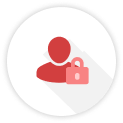
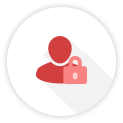
Depen

diff --git a/src/js/views/roles/Roles.js b/src/js/views/roles/Roles.js
@@ -1,16 +1,16 @@
 import React, { Component } from 'react';
 import AltContainer from 'alt-container';
-import { FormattedMessage } from 'react-intl';
 import RoleStore from '../../stores/RoleStore';
 import RoleActions from '../../actions/RoleActions';
 import { NewPageHeader } from '../../containers/full/PageHeader';
 import { DojotBtnLink } from '../../components/DojotButton';
 
+
 function RoleCard(obj) {
     return (
         <div className="card-size card-hover lst-entry-wrapper z-depth-2 fullHeight">
             <div className="lst-entry-title col s12">
-                <img className="title-icon" src="images/icons/roles-wt.png" alt="Role" />
+                <img className="title-icon" src="images/roles-icon.png" alt="Role" />
                 <div className="title-text truncate" title={obj.group.name}>
                     <span className="text">
                         {obj.group.name}
@@ -24,13 +24,9 @@ function RoleCard(obj) {
                             <img src="images/info-icon.png" alt="Description" />
                         </div>
                         <div className="user-card attr-content" title={obj.group.description}>
-                            <input className="truncate" type="text" value={obj.group.description} disabled />
-                            <span>
-                                <FormattedMessage
-                                    id="Roles.description"
-                                    defaultMessage="Description"
-                                />
-                            </span>
+               {/*              <input  type="text" value={obj.group.description} disabled /> */}
+                            {obj.group.description}
+                            <span>Description</span>
                         </div>
                     </div>
 
@@ -45,7 +41,7 @@ function RolesList(param) {
     if (param.groups) {
         return (
             <div className="fill">
-                {param.groups.map(obj => <RoleCard group={obj} />)}
+                {param.groups.map(obj => <RoleCard group={obj} key={obj.id} />)}
             </div>);
     }
 }

diff --git a/src/js/index.js b/src/js/index.js
@@ -1,7 +1,6 @@
 /* global document */
 import React from 'react';
 import { render } from 'react-dom';
-import { IntlProvider } from 'react-intl';
 import App from './App';
 
-render(<IntlProvider><App /></IntlProvider>, document.getElementById('app'));
+render(<App />, document.getElementById('app'));

diff --git a/src/sass/_roles.scss b/src/sass/_roles.scss
@@ -20,6 +20,13 @@
   }
 
   .card-size .attr-area {
+    height: 200px;
+    font-family: Roboto, sans-serif;
+    font-weight: 500;
+    color: #4F4F4F;
+    font-size: 14px;
+  }
+  .card-size .attr-area .attr-row .attr-content{
     height: 100px;
   }
 
